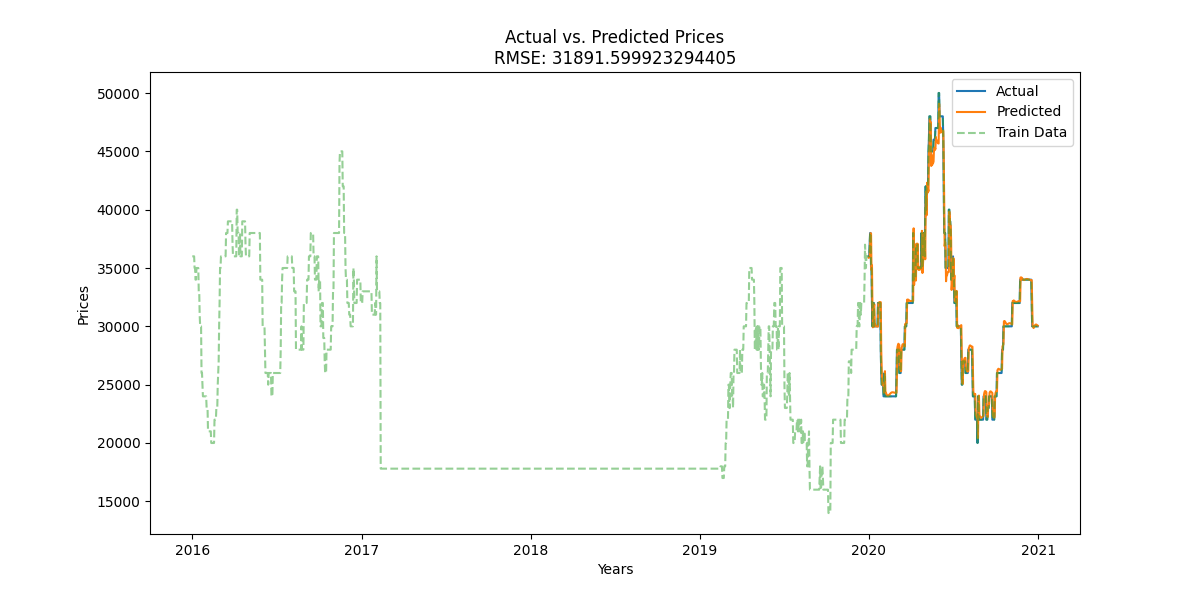
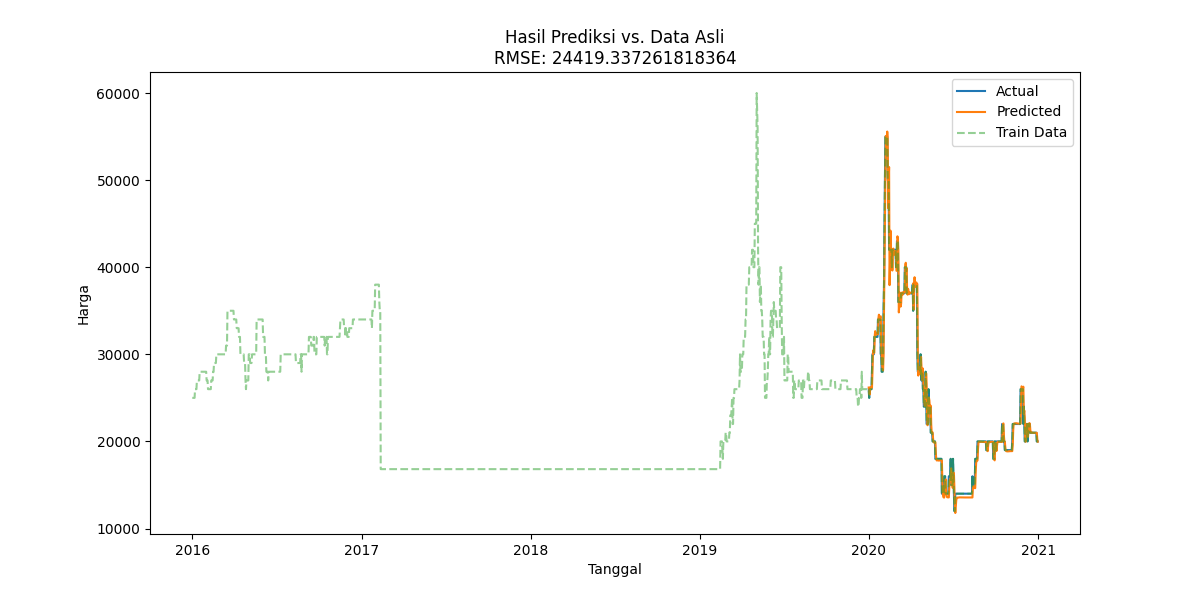
fix grafik.py

diff --git a/grafik.py b/grafik.py
@@ -56,28 +56,30 @@ PERCENTAGE = 0.8
 @app.route(f"{route_prefix}/plot", methods=['GET'])
 def plot():
     try:
-        query = "SELECT tanggal, harga_current FROM pertanian.daftar_harga WHERE tanggal >= '2016-01-01' AND tanggal <= '2020-12-31' AND nm_komoditas = 'Bawang Merah' AND nm_pasar = 'Pasar Wlingi' GROUP BY tanggal"
+        # query = "SELECT tanggal, harga_current FROM pertanian_lama.harga_komoditas WHERE tanggal >= '2016-01-01' AND tanggal <= '2020-12-31' AND nm_komoditas = 'BAWANG PUTIH' AND nm_pasar = 'Pasar Dinoyo' GROUP BY tanggal"
+        query = "SELECT tanggal, harga_current FROM pertanian.daftar_harga WHERE tanggal >= '2016-01-01' AND tanggal <= '2020-12-31' AND komoditas_id = '9' AND pasar_id = '100' GROUP BY tanggal"
         records = db.run_query(query=query)
         db.close_connection()
 
         # Get data dan parsing menjadi time series
         data = pd.DataFrame(records, columns=['tanggal', 'harga_current'])
-        dateParse = lambda x: pd.to_datetime(x)
-        data['tanggal'] = data['tanggal'].apply(dateParse)
-        data = data.sort_values('tanggal')
+        data['tanggal'] = pd.to_datetime(data['tanggal'])
+        # data = data.sort_values('tanggal')
         data.set_index('tanggal', inplace=True)
+        # dataframe_json = data.to_json(orient='records')
 
         # Preprocessing data
         # Perhitungan rata-rata untuk mengisi data harga_current = 0
         avg_harga_current = data['harga_current'].mean()
         data['harga_current'] = data['harga_current'].replace(0, avg_harga_current)
-        # Normalisasi data
+        dataframe_json = data.reset_index().to_json(orient='records')
+        # # Normalisasi data
         scaler = MinMaxScaler(feature_range=(0, 1))
         data_scaled = scaler.fit_transform(data[['harga_current']])
         data_json = json.dumps(data_scaled.tolist())
 
         # Dataframe harga yang sudah diolah
-        dataset = pd.DataFrame(data_scaled, columns=['harga_current'], index=data.index).reset_index()
+        # dataset = pd.DataFrame(data_scaled, columns=['harga_current'], index=data.index).reset_index()
 
         # Pembagian data dengan membuat rumus len of percentage (data train dan data test)
         PERCENTAGE = 0.8 # Persentase data train adalah 0.8 (80%) untuk saat ini
@@ -171,79 +173,79 @@ def plot():
         abort(HTTPStatus.BAD_REQUEST, description=str(e))
 
 # Add new predict data
-@app.route(f"{route_prefix}/addPredict", methods=['GET'])
-# Penggunaan parameter untuk menambahkan variabel data baru yang berupa hasil prediksi masa mendatang
-def addPredict(data, nm_komoditas, nm_pasar, tanggal_awal, tanggal_akhir):
-    try:
-        # get last date data for creating new dataset
-        new_tanggal_akhir = tanggal_akhir + NEXT_PREDICTION
-        new_tanggal_akhir = pd.to_datetime()
+# @app.route(f"{route_prefix}/addPredict", methods=['GET'])
+# # Penggunaan parameter untuk menambahkan variabel data baru yang berupa hasil prediksi masa mendatang
+# def addPredict(data, nm_komoditas, nm_pasar, tanggal_awal, tanggal_akhir):
+#     try:
+#         # get last date data for creating new dataset
+#         new_tanggal_akhir = tanggal_akhir + NEXT_PREDICTION
+#         new_tanggal_akhir = pd.to_datetime()
 
-        # New query for getting new dataset
-        query = f"SELECT tanggal, harga_current FROM daftar_harga WHERE tanggal >= '{tanggal_awal}' AND tanggal <= '{new_tanggal_akhir}' AND komoditas_id = '{nm_komoditas}' AND pasar_id = '{nm_pasar}' GROUP BY tanggal"
-        records = db.run_query(query=query)
-        db.close_connection()
+#         # New query for getting new dataset
+#         query = f"SELECT tanggal, harga_current FROM daftar_harga WHERE tanggal >= '{tanggal_awal}' AND tanggal <= '{new_tanggal_akhir}' AND komoditas_id = '{nm_komoditas}' AND pasar_id = '{nm_pasar}' GROUP BY tanggal"
+#         records = db.run_query(query=query)
+#         db.close_connection()
 
-        # Create new dataset
-        new_data = pd.DataFrame(records, columns=['tanggal', 'harga_current'])
-        dateParse = lambda x: pd.to_datetime(x)
-        new_data['tanggal'] = new_data['tanggal'].apply(dateParse)
-        new_data = new_data.sort_values('tanggal')
-        new_data.set_index('tanggal', inplace=True)
+#         # Create new dataset
+#         new_data = pd.DataFrame(records, columns=['tanggal', 'harga_current'])
+#         dateParse = lambda x: pd.to_datetime(x)
+#         new_data['tanggal'] = new_data['tanggal'].apply(dateParse)
+#         new_data = new_data.sort_values('tanggal')
+#         new_data.set_index('tanggal', inplace=True)
 
-        # Preprocessing data
-        # Perhitungan rata-rata untuk mengisi data harga_current = 0
-        avg_harga_current = new_data['harga_current'].mean()
-        new_data['harga_current'] = new_data['harga_current'].replace(0, avg_harga_current)
-        # Normalisasi data
-        scaler = MinMaxScaler(feature_range=(0, 1))
-        new_data_scaled = scaler.fit_transform(new_data[['harga_current']])
-        data_json = json.dumps(new_data_scaled.tolist())
+#         # Preprocessing data
+#         # Perhitungan rata-rata untuk mengisi data harga_current = 0
+#         avg_harga_current = new_data['harga_current'].mean()
+#         new_data['harga_current'] = new_data['harga_current'].replace(0, avg_harga_current)
+#         # Normalisasi data
+#         scaler = MinMaxScaler(feature_range=(0, 1))
+#         new_data_scaled = scaler.fit_transform(new_data[['harga_current']])
+#         data_json = json.dumps(new_data_scaled.tolist())
 
-        # Pembagian data dengan membuat rumus len of percentage (data train dan data test)
-        train_size = int(len(new_data_scaled) * PERCENTAGE)
+#         # Pembagian data dengan membuat rumus len of percentage (data train dan data test)
+#         train_size = int(len(new_data_scaled) * PERCENTAGE)
 
-        # Create new data_test
-        new_data_test = new_data_scaled[train_size - SEQUENCE_DATA:]
+#         # Create new data_test
+#         new_data_test = new_data_scaled[train_size - SEQUENCE_DATA:]
 
-        # Create new sequence data_test for new dataset
-        new_xTest = []
-        new_yTest = new_data_scaled[train_size:]
-        for i in range(SEQUENCE_DATA, len(new_data_test)):
-            new_xTest.append(new_data_test[i - SEQUENCE_DATA:i, 0])
+#         # Create new sequence data_test for new dataset
+#         new_xTest = []
+#         new_yTest = new_data_scaled[train_size:]
+#         for i in range(SEQUENCE_DATA, len(new_data_test)):
+#             new_xTest.append(new_data_test[i - SEQUENCE_DATA:i, 0])
         
-        # Convert x and y to numpy
-        new_xTest = np.array(new_xTest)
+#         # Convert x and y to numpy
+#         new_xTest = np.array(new_xTest)
 
-        # Convert to array 3 dimension
-        new_xTest_3d = np.reshape(new_xTest, (new_xTest.shape[0], SEQUENCE_DATA, 1))
+#         # Convert to array 3 dimension
+#         new_xTest_3d = np.reshape(new_xTest, (new_xTest.shape[0], SEQUENCE_DATA, 1))
 
-        # Load model prediction
-        model = load_model('trained_model.h5')
+#         # Load model prediction
+#         model = load_model('trained_model.h5')
 
-        # Make new predict for future
-        new_predictions = model.predict(new_xTest)
+#         # Make new predict for future
+#         new_predictions = model.predict(new_xTest)
 
-        # Transform to real values
-        new_predictions = scaler.inverse_transform(new_predictions)
+#         # Transform to real values
+#         new_predictions = scaler.inverse_transform(new_predictions)
 
-        # RMSE
-        new_rmse = np.sqrt(np.mean(new_predictions - new_yTest) ** 2)
-        print('Root mean square (RMSE) - New:' + str(new_rmse))
-        akurasi = "Root Mean Squared Error (RMSE) pada data test: {:.2f}".format(new_rmse)
+#         # RMSE
+#         new_rmse = np.sqrt(np.mean(new_predictions - new_yTest) ** 2)
+#         print('Root mean square (RMSE) - New:' + str(new_rmse))
+#         akurasi = "Root Mean Squared Error (RMSE) pada data test: {:.2f}".format(new_rmse)
 
-        # Create new dataframe for new_data_predictions, new_data_valid, new_data_train
-        new_data_train = new_data.loc[train_size:]
-        new_data_valid = new_data.loc[:train_size]
-        new_data_predictions = pd.DataFrame(new_predictions, columns=['new_predictions'], index=new_data.index[-len(new_predictions):])
+#         # Create new dataframe for new_data_predictions, new_data_valid, new_data_train
+#         new_data_train = new_data.loc[train_size:]
+#         new_data_valid = new_data.loc[:train_size]
+#         new_data_predictions = pd.DataFrame(new_predictions, columns=['new_predictions'], index=new_data.index[-len(new_predictions):])
 
-        # Concat
-        new_dataset = pd.concat([new_data_valid, new_data_predictions], axis=1)
-        return
-    except pymysql.MySQLError as err:
-        abort(HTTPStatus.INTERNAL_SERVER_ERROR, description=str(err))
-    except Exception as e:
-        abort(HTTPStatus.BAD_REQUEST, description=str(e))
+#         # Concat
+#         new_dataset = pd.concat([new_data_valid, new_data_predictions], axis=1)
+#         return
+#     except pymysql.MySQLError as err:
+#         abort(HTTPStatus.INTERNAL_SERVER_ERROR, description=str(err))
+#     except Exception as e:
+#         abort(HTTPStatus.BAD_REQUEST, description=str(e))
 
 # =================================================[ Routes - End ]
 
